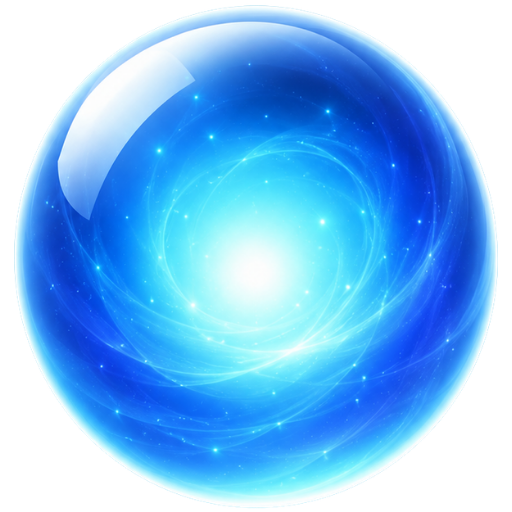
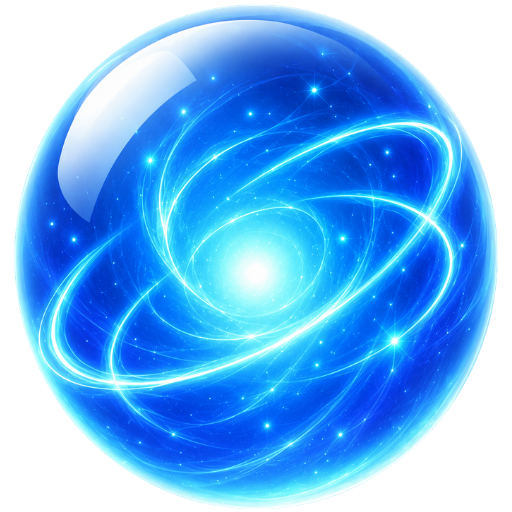
feat(ui): add expandable/collapsible canvas with toggle control

diff --git a/src/App.tsx b/src/App.tsx
@@ -151,6 +151,7 @@ export default function App() {
   const [runState, dispatchRunState] = useReducer(chatRunReducer, undefined, createInitialChatRunState);
   const [activeRunController, setActiveRunController] = useState<AbortController | null>(null);
   const [isCanvasOpen, setIsCanvasOpen] = useState(false);
+  const [isCanvasExpanded, setIsCanvasExpanded] = useState(false);
   const [sidebarWidth, setSidebarWidth] = useState(() => Number(localStorage.getItem(sidebarWidthStorageKey)) || 280);
   const [canvasWidth, setCanvasWidth] = useState(() => Number(localStorage.getItem(canvasWidthStorageKey)) || 520);
   const [providerConfigs, setProviderConfigs] = useState<ProviderConfig[]>([]);
@@ -322,10 +323,12 @@ export default function App() {
 
   const handleCanvasResizeStart = (event: PointerEvent<HTMLDivElement>) => {
     event.preventDefault();
+    setIsCanvasExpanded(false);
     const startX = event.clientX;
     const startWidth = canvasWidth;
     const handlePointerMove = (moveEvent: globalThis.PointerEvent) => {
-      setCanvasWidth(Math.min(900, Math.max(340, startWidth - (moveEvent.clientX - startX))));
+      const maxCanvasWidth = Math.max(340, window.innerWidth - sidebarWidth - 280);
+      setCanvasWidth(Math.min(maxCanvasWidth, Math.max(340, startWidth - (moveEvent.clientX - startX))));
     };
     const handlePointerUp = () => {
       window.removeEventListener("pointermove", handlePointerMove);
@@ -650,9 +653,16 @@ export default function App() {
     "--sidebar-width": `${sidebarWidth}px`,
     "--canvas-width": `${canvasWidth}px`,
   } as CSSProperties;
+  const shellClassName = [
+    "app-shell",
+    isCanvasOpen ? null : "canvas-collapsed",
+    isCanvasOpen && isCanvasExpanded ? "canvas-expanded" : null,
+  ]
+    .filter(Boolean)
+    .join(" ");
 
   return (
-    <main className={isCanvasOpen ? "app-shell" : "app-shell canvas-collapsed"} style={layoutStyle}>
+    <main className={shellClassName} style={layoutStyle}>
       <Sidebar
         activeConversationId={activeConversation.id}
         conversations={conversations}
@@ -682,7 +692,16 @@ export default function App() {
         onSend={handleSend}
       />
       {isCanvasOpen ? (
-        <CanvasPanel groups={artifactGroups} onResizeStart={handleCanvasResizeStart} onClose={() => setIsCanvasOpen(false)} />
+        <CanvasPanel
+          groups={artifactGroups}
+          isExpanded={isCanvasExpanded}
+          onResizeStart={handleCanvasResizeStart}
+          onToggleExpanded={() => setIsCanvasExpanded((current) => !current)}
+          onClose={() => {
+            setIsCanvasExpanded(false);
+            setIsCanvasOpen(false);
+          }}
+        />
       ) : null}
       {showSettings ? (
         <SettingsPanel

diff --git a/src/ui/CanvasPanel.tsx b/src/ui/CanvasPanel.tsx
@@ -1,5 +1,17 @@
 import { PointerEvent, useEffect, useMemo, useRef, useState } from "react";
-import { Archive, ChevronLeft, ChevronRight, Code2, Copy, Download, Eye, FileText, PanelRightClose } from "lucide-react";
+import {
+  Archive,
+  ChevronLeft,
+  ChevronRight,
+  Code2,
+  Copy,
+  Download,
+  Eye,
+  FileText,
+  Maximize2,
+  Minimize2,
+  PanelRightClose,
+} from "lucide-react";
 import { marked } from "marked";
 import DOMPurify from "dompurify";
 import mermaid from "mermaid";
@@ -10,7 +22,9 @@ mermaid.initialize({ startOnLoad: false, theme: "dark", securityLevel: "strict" 
 
 interface CanvasPanelProps {
   groups: ArtifactGroup[];
+  isExpanded: boolean;
   onResizeStart: (event: PointerEvent<HTMLDivElement>) => void;
+  onToggleExpanded: () => void;
   onClose: () => void;
 }
 
@@ -109,7 +123,7 @@ function ArtifactPreview({ artifact }: { artifact: Artifact }) {
   }
 }
 
-export function CanvasPanel({ groups, onResizeStart, onClose }: CanvasPanelProps) {
+export function CanvasPanel({ groups, isExpanded, onResizeStart, onToggleExpanded, onClose }: CanvasPanelProps) {
   const [selectedGroupKey, setSelectedGroupKey] = useState<string | null>(null);
   const [revisionIndexByGroup, setRevisionIndexByGroup] = useState<Record<string, number>>({});
   const [view, setView] = useState<"preview" | "raw">("preview");
@@ -226,6 +240,14 @@ export function CanvasPanel({ groups, onResizeStart, onClose }: CanvasPanelProps
               </button>
             </>
           ) : null}
+          <button
+            type="button"
+            aria-label={isExpanded ? "Restore canvas size" : "Expand canvas"}
+            title={isExpanded ? "Restore canvas size" : "Expand canvas"}
+            onClick={onToggleExpanded}
+          >
+            {isExpanded ? <Minimize2 size={15} /> : <Maximize2 size={15} />}
+          </button>
           <button type="button" aria-label="Close canvas" onClick={onClose}>
             <PanelRightClose size={15} />
           </button>

diff --git a/src/styles.css b/src/styles.css
@@ -41,7 +41,7 @@ button {
 
 .app-shell {
   display: grid;
-  grid-template-columns: var(--sidebar-width, 280px) minmax(420px, 1fr) minmax(340px, var(--canvas-width, 520px));
+  grid-template-columns: var(--sidebar-width, 280px) minmax(280px, 1fr) minmax(340px, var(--canvas-width, 520px));
   grid-template-rows: minmax(0, 1fr);
   height: 100vh;
   overflow: hidden;
@@ -49,7 +49,17 @@ button {
 }
 
 .app-shell.canvas-collapsed {
-  grid-template-columns: var(--sidebar-width, 280px) minmax(420px, 1fr);
+  grid-template-columns: var(--sidebar-width, 280px) minmax(280px, 1fr);
+}
+
+.app-shell.canvas-expanded {
+  grid-template-columns: var(--sidebar-width, 280px) 0 minmax(0, 1fr);
+}
+
+.app-shell.canvas-expanded .chat-workspace {
+  overflow: hidden;
+  visibility: hidden;
+  pointer-events: none;
 }
 
 .sidebar,
